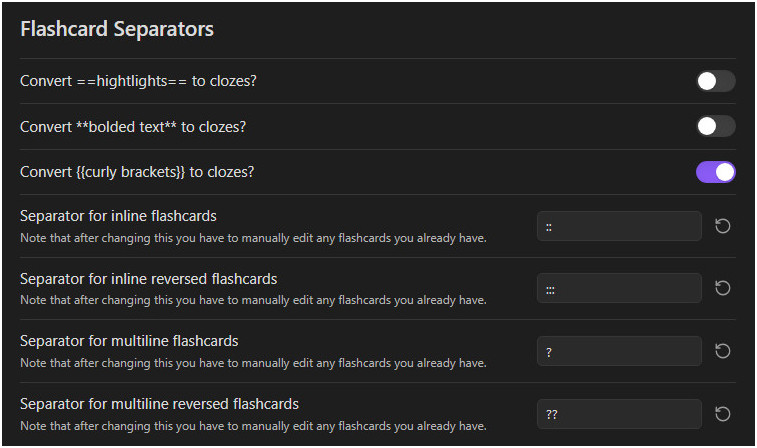
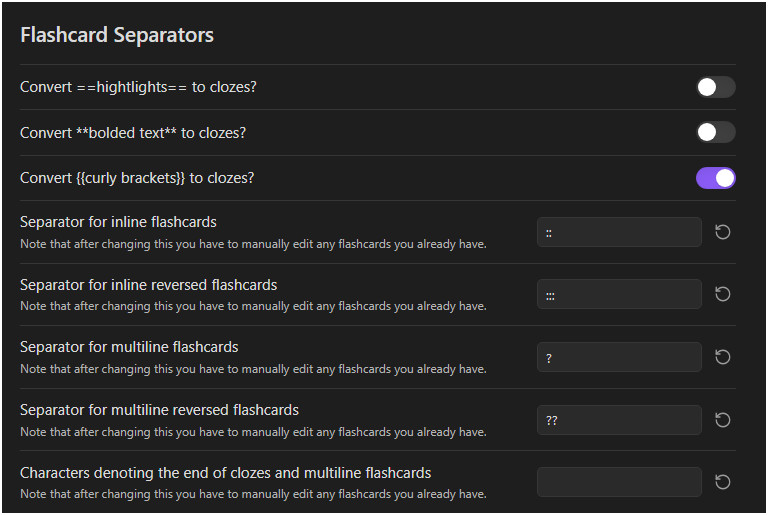
Partial update of the user documentation

diff --git a/docs/docs/en/flashcards/cards-with-blank-lines.md b/docs/docs/en/flashcards/cards-with-blank-lines.md
@@ -1,0 +1,37 @@
+# Including Blank Lines in Flashcards
+
+By default, [Multi-line Basic](qanda-cards.md#multi-line-basic), [Multi-line Bidirectional](qanda-cards.md#multi-line-bidirectional) 
+and [Cloze](basic-cloze-cards.md) type flashcards recognize a blank line as the end of the flashcard text.
+This means that blank lines can not be included within the text.
+
+If blank lines need to be included (e.g. on a card containing a markdown table), the
+`Characters denoting the end of clozes and multiline flashcards` [setting](../user-options.md#flashcard-separators)
+needs to be changed.
+
+For example, it could be changed to `+++`.
+
+## Including a Table in the Flashcard Answer
+
+Sometimes it is desirable or necessary to include blank lines in the answer section of a
+multiline basic type flashcard.
+
+For example, a table in 
+
+Obsidian requires a blank line before a table for it to be displayed correctly.
+Without it, Obsidian displays it just as text and not correctly formatted.
+
+![table-with-no-preceding-blank-line](https://github.com/user-attachments/assets/daed1309-3b38-4d14-bb42-b302efda96df)
+
+And with a blank line after the `?` and before the table, it is displayed correctly.
+However, by default a blank line signifies the end of the multiline card.
+
+To include the blank line, the
+`Characters denoting the end of clozes and multiline flashcards` [setting](../user-options.md#flashcard-separators)
+needs to be changed. Then that character sequence added as a line after the end of the flashcard text. For example:
+
+
+![table-with-preceding-blank-line+++](https://github.com/user-attachments/assets/ccf74695-f38a-4068-832f-ae2c1a3cab0b)
+
+Now the card is displayed correctly during a review.
+
+![table-with-preceding-blank-line-review](https://github.com/user-attachments/assets/3bff8d25-f91f-4bc0-b922-7471d6b60869)

diff --git a/docs/docs/en/flashcards/flashcards-overview.md b/docs/docs/en/flashcards/flashcards-overview.md
@@ -56,6 +56,18 @@ If there are multiple cards defined by a single flashcard, those cards are known
 A special scheduling option is available for the review of sibling cards. If the [Bury sibling cards until the next day]( ../user-options.md#flashcard-review) setting is turned on, 
 only one sibling card is available for review on a single day.
 
+### Including Blank Lines within Multiline and Cloze Flashcards
+
+By default, [Multi-line Basic](qanda-cards.md#multi-line-basic), [Multi-line Bidirectional](qanda-cards.md#multi-line-bidirectional) 
+and [Cloze](basic-cloze-cards.md) type flashcards recognize a blank line as the end of the flashcard text.
+This means that blank lines can not be included within the text.
+
+If blank lines need to be included (e.g. on a card containing a markdown table), the
+`Characters denoting the end of clozes and multiline flashcards` [setting](../user-options.md#flashcard-separators)
+needs to be changed.
+
+For example, it could be changed to `+++`.
+
 ---
 
 

diff --git a/docs/docs/en/flashcards/qanda-cards.md b/docs/docs/en/flashcards/qanda-cards.md
@@ -103,7 +103,8 @@ the answer
     </div>
 
 
-These can also span over multiple lines as long as both sides "touch" the `?`:
+These can also span over multiple lines as long as both sides "touch" the `?`.
+To include blank lines, see the section below.
 
 
 
@@ -128,6 +129,7 @@ info 2B
 ```
 
 These can also span over multiple lines as long as both sides "touch" the `??`:
+To include blank lines, see the section below.
 
 !!! note "Card 1"
     <div class="grid" markdown>
@@ -162,6 +164,3 @@ These can also span over multiple lines as long as both sides "touch" the `??`:
 
 These two cards are considered sibling cards. See [sibling cards](flashcards-overview.md#sibling-cards) regarding the 
 [Bury sibling cards until the next day]( ../user-options.md#flashcard-review) scheduling option.
-
-
-

diff --git a/docs/docs/en/user-options.md b/docs/docs/en/user-options.md
@@ -12,7 +12,7 @@
 
 ### Flashcard Separators
 
-![flashcard-settings-separators](https://github.com/user-attachments/assets/bc5706de-80d7-445d-9e9c-5c9fe6d9522a)
+![flashcard-settings-separators](https://github.com/user-attachments/assets/744aea85-fdb3-4508-b532-7a551253f97d)
 
 ### Storage of Scheduling Data
 
